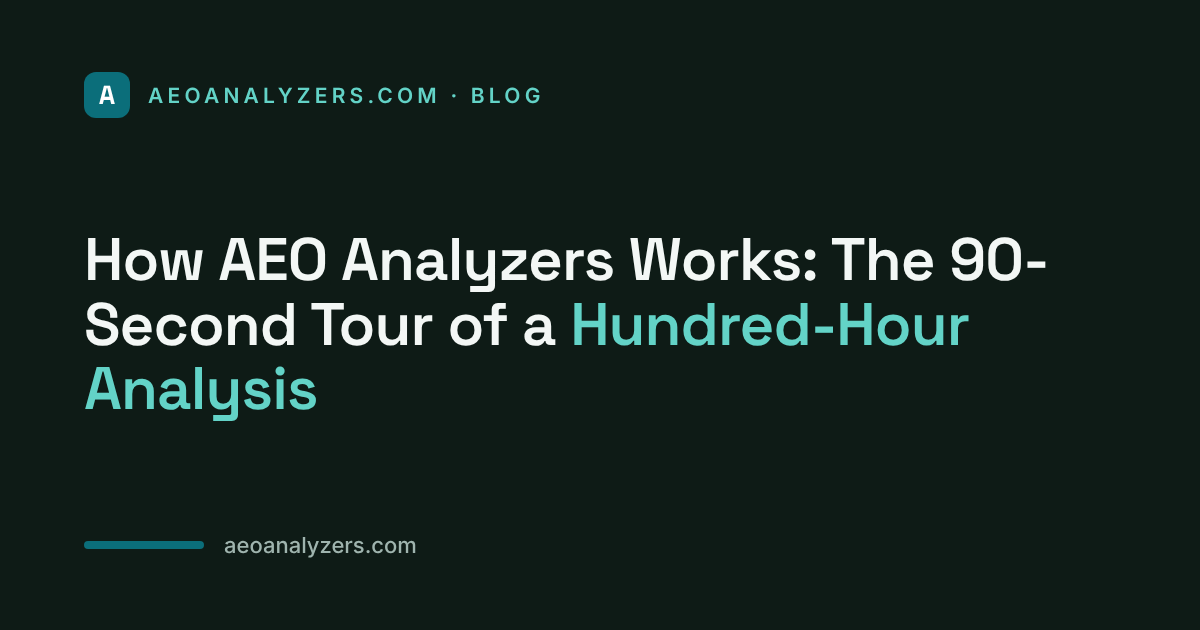
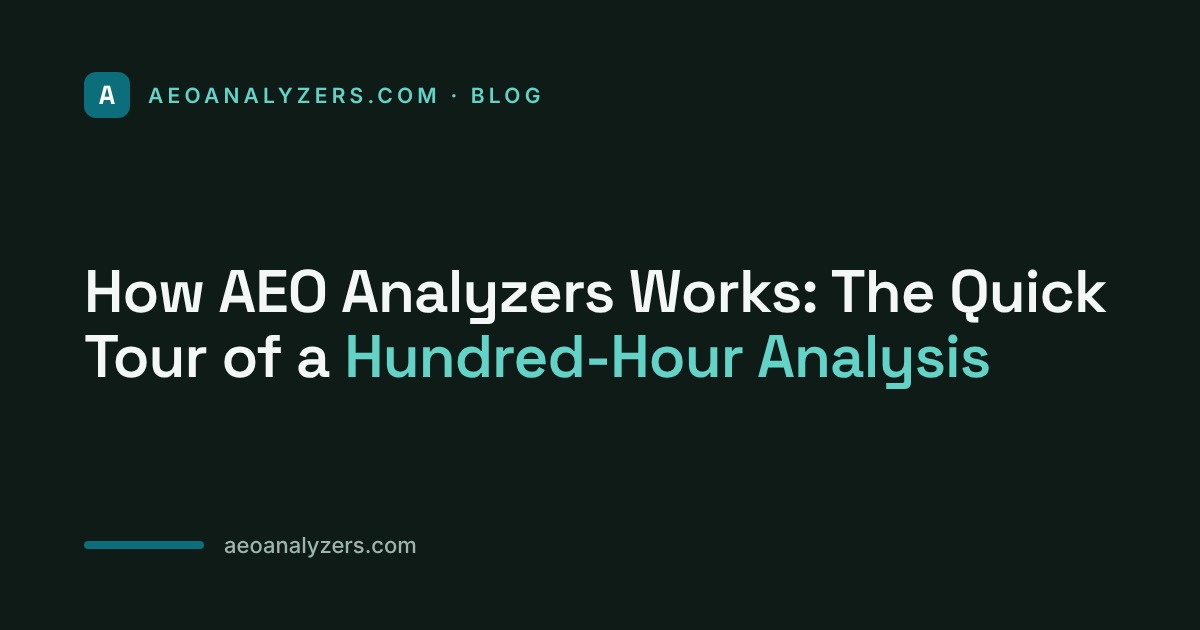
Retitle /blog/how-it-works to "The Quick Tour" (no timing figure); regenerate its title card; footer pass committed on the release pages
Claude-Session: https://claude.ai/code/session_01M4Z6V3c3eMgko9FCs2dnki

Changed region(s): [[0.0617, 0.3619, 0.925, 0.6635]]

diff --git a/public/blog/how-it-works/index.html b/public/blog/how-it-works/index.html
@@ -6,13 +6,13 @@
 <link rel="icon" href="/favicon.ico" sizes="any">
 <link rel="icon" type="image/svg+xml" href="/favicon.svg">
 <link rel="apple-touch-icon" href="/apple-touch-icon.png">
-<title>How AEO Analyzers Works: The 90-Second Tour</title>
+<title>How AEO Analyzers Works: The Quick Tour</title>
 <meta name="description" content="The pipeline, drawn: read your site, ask five answer engines on Pro and Business (four on the Day Pass), score three layers, keep every transcript.">
 <meta name="robots" content="index,follow,max-image-preview:large">
 <link rel="canonical" href="https://aeoanalyzers.com/blog/how-it-works">
 <meta property="og:type" content="article">
 <meta property="og:site_name" content="AEO Analyzers">
-<meta property="og:title" content="How AEO Analyzers Works: The 90-Second Tour of a Hundred-Hour Analysis">
+<meta property="og:title" content="How AEO Analyzers Works: The Quick Tour of a Hundred-Hour Analysis">
 <meta property="og:description" content="The pipeline, drawn: read your site, ask five answer engines on Pro and Business (four on the Day Pass), score three layers, keep every transcript.">
 <meta property="og:url" content="https://aeoanalyzers.com/blog/how-it-works">
 <meta property="og:image" content="https://aeoanalyzers.com/img/blog/2026-11/og-how-it-works-2026-11c.jpg">
@@ -23,7 +23,7 @@
 <meta name="twitter:card" content="summary_large_image">
 <meta name="twitter:site" content="@Lindsay_Hiebert">
 <meta name="twitter:creator" content="@Lindsay_Hiebert">
-<meta name="twitter:title" content="How AEO Analyzers Works: The 90-Second Tour of a Hundred-Hour Analysis">
+<meta name="twitter:title" content="How AEO Analyzers Works: The Quick Tour of a Hundred-Hour Analysis">
 <meta name="twitter:description" content="The pipeline, drawn: read your site, ask five answer engines on Pro and Business (four on the Day Pass), score three layers, keep every transcript.">
 <meta name="twitter:image" content="https://aeoanalyzers.com/img/blog/2026-11/og-how-it-works-2026-11c.jpg">
 <meta name="theme-color" content="#08343B">
@@ -31,7 +31,7 @@
 {
   "@context": "https://schema.org",
   "@type": "BlogPosting",
-  "headline": "How AEO Analyzers Works: The 90-Second Tour of a Hundred-Hour Analysis",
+  "headline": "How AEO Analyzers Works: The Quick Tour of a Hundred-Hour Analysis",
   "description": "The pipeline, drawn: read your site, ask five answer engines on Pro and Business (four on the Day Pass), score three layers, keep every transcript.",
   "datePublished": "2026-08-01",
   "dateModified": "2026-10-15",
@@ -154,7 +154,7 @@ strong{color:var(--ink)}
 <link rel="alternate" type="application/rss+xml" title="AEO Analyzers Blog" href="https://aeoanalyzers.com/blog/feed.xml">
 
 <meta name="twitter:image:alt" content="AEO Analyzers: Ask the engines. Keep every transcript. The pipeline in five boxes: your site, your questions, the engines asked several times, three layers scored, transcripts kept.">
-<!--wo016:breadcrumb-ld--><script type="application/ld+json">{"@context":"https://schema.org","@type":"BreadcrumbList","itemListElement":[{"@type":"ListItem","position":1,"name":"Home","item":"https://aeoanalyzers.com/"},{"@type":"ListItem","position":2,"name":"Blog","item":"https://aeoanalyzers.com/blog/"},{"@type":"ListItem","position":3,"name":"Behind the scenes","item":"https://aeoanalyzers.com/blog/#behind-the-scenes"},{"@type":"ListItem","position":4,"name":"How AEO Analyzers Works: The 90-Second Tour of a Hundred-Hour Analysis","item":"https://aeoanalyzers.com/blog/how-it-works"}]}</script><!--/wo016:breadcrumb-ld--></head>
+<!--wo016:breadcrumb-ld--><script type="application/ld+json">{"@context":"https://schema.org","@type":"BreadcrumbList","itemListElement":[{"@type":"ListItem","position":1,"name":"Home","item":"https://aeoanalyzers.com/"},{"@type":"ListItem","position":2,"name":"Blog","item":"https://aeoanalyzers.com/blog/"},{"@type":"ListItem","position":3,"name":"Behind the scenes","item":"https://aeoanalyzers.com/blog/#behind-the-scenes"},{"@type":"ListItem","position":4,"name":"How AEO Analyzers Works: The Quick Tour of a Hundred-Hour Analysis","item":"https://aeoanalyzers.com/blog/how-it-works"}]}</script><!--/wo016:breadcrumb-ld--></head>
 <body>
 <!--wo016:header--><header class="sitebar wo">
   <a class="brand" href="/"><svg aria-hidden="true" width="27" height="27" viewBox="0 0 40 40"><rect width="40" height="40" rx="12" fill="#18181B"/><g transform="translate(8 8)" fill="none" stroke="#FFFFFF" stroke-width="2" stroke-linecap="round" stroke-linejoin="round"><path d="M12 20v2M12 2v2M17 20v2M17 2v2M2 12h2M2 17h2M2 7h2M20 12h2M20 17h2M20 7h2M7 20v2M7 2v2"/><rect x="4" y="4" width="16" height="16" rx="2"/><rect x="8" y="8" width="8" height="8" rx="1"/></g></svg><span>AEO Analyzers</span></a>
@@ -165,8 +165,8 @@ strong{color:var(--ink)}
 <div class="wrap">
   <article class="post">
                 
-    <!--wo016:crumbs--><nav class="crumbs" aria-label="Breadcrumb"><a href="/">Home</a><span aria-hidden="true">›</span><a href="/blog/">Blog</a><span aria-hidden="true">›</span><a href="/blog/#behind-the-scenes">Behind the scenes</a><span aria-hidden="true">›</span><span aria-current="page">How AEO Analyzers Works: The 90-Second Tour of a Hundred-Hour Analysis</span></nav><a class="backlink" href="/blog/">← Back to the blog</a><!--/wo016:crumbs--><div class="posteyebrow">AEO Analyzers · Behind the scenes</div>
-    <h1 class="posttitle">How AEO Analyzers Works: The 90-Second Tour of a Hundred-Hour Analysis</h1><!--wo016:hero--><figure class="posthero"><img src="/img/blog/2026-11/how-it-works-hero-2026-11c.webp" alt="Ask the engines. Keep every transcript. The pipeline in five boxes: your site, your questions, the engines asked several times, three layers scored, transcripts kept." width="1600" height="840" fetchpriority="high" decoding="async"></figure><!--/wo016:hero-->
+    <!--wo016:crumbs--><nav class="crumbs" aria-label="Breadcrumb"><a href="/">Home</a><span aria-hidden="true">›</span><a href="/blog/">Blog</a><span aria-hidden="true">›</span><a href="/blog/#behind-the-scenes">Behind the scenes</a><span aria-hidden="true">›</span><span aria-current="page">How AEO Analyzers Works: The Quick Tour of a Hundred-Hour Analysis</span></nav><a class="backlink" href="/blog/">← Back to the blog</a><!--/wo016:crumbs--><div class="posteyebrow">AEO Analyzers · Behind the scenes</div>
+    <h1 class="posttitle">How AEO Analyzers Works: The Quick Tour of a Hundred-Hour Analysis</h1><!--wo016:hero--><figure class="posthero"><img src="/img/blog/2026-11/how-it-works-hero-2026-11c.webp" alt="Ask the engines. Keep every transcript. The pipeline in five boxes: your site, your questions, the engines asked several times, three layers scored, transcripts kept." width="1600" height="840" fetchpriority="high" decoding="async"></figure><!--/wo016:hero-->
     <div class="postbody">
       <p style="margin:0 0 10px;font-size:14px;color:var(--muted)"><strong style="color:var(--ink)">Updated 15 October 2026:</strong> Pro and Business sweeps now ask five engines, adding Grok. The method is otherwise unchanged.</p>
       <p class="postlead">This one shows its work — every question it asked, every engine it asked, every answer it got back, stored so you can re-run it yourself. Here is the whole pipeline, end to end, in about the time it takes to read this page.</p>

diff --git a/public/blog/what-you-actually-get/index.html b/public/blog/what-you-actually-get/index.html
@@ -276,8 +276,8 @@ footer p{max-width:none}
     <p class="samplenote"><em>AEO Analyzers (aeoanalyzers.com) was created and is solely maintained by Lindsay Hiebert, founder of PIGENAI LLC. It is unaffiliated with any similarly named browser extension, plugin, or tool.</em></p>
         
   <!--wo016:end--><div class="postend"><a class="backlink" href="/blog/">← Back to the blog</a>
-      <nav class="prevnext" aria-label="More in Behind the scenes"><a class="prev" href="/blog/how-it-works"><small>← Previous in Behind the scenes</small>How AEO Analyzers Works: The 90-Second Tour of a Hundred-Hour Analysis</a><a class="next" href="/blog/are-you-the-answer-ai-gives"><small>Next in Behind the scenes →</small>Is your brand the answer AI gives — or is a competitor?</a></nav>
-      <div class="morein"><h2>More in Behind the scenes</h2><ul><li><a href="/blog/how-it-works">How AEO Analyzers Works: The 90-Second Tour of a Hundred-Hour Analysis</a></li><li><a href="/blog/are-you-the-answer-ai-gives">Is your brand the answer AI gives — or is a competitor?</a></li></ul></div></div><!--/wo016:end--></article>
+      <nav class="prevnext" aria-label="More in Behind the scenes"><a class="prev" href="/blog/how-it-works"><small>← Previous in Behind the scenes</small>How AEO Analyzers Works: The Quick Tour of a Hundred-Hour Analysis</a><a class="next" href="/blog/are-you-the-answer-ai-gives"><small>Next in Behind the scenes →</small>Is your brand the answer AI gives — or is a competitor?</a></nav>
+      <div class="morein"><h2>More in Behind the scenes</h2><ul><li><a href="/blog/how-it-works">How AEO Analyzers Works: The Quick Tour of a Hundred-Hour Analysis</a></li><li><a href="/blog/are-you-the-answer-ai-gives">Is your brand the answer AI gives — or is a competitor?</a></li></ul></div></div><!--/wo016:end--></article>
 
   <div class="postoutro">
     <span class="eyebrow">See yours</span>

diff --git a/public/blog/index.html b/public/blog/index.html
@@ -181,7 +181,7 @@ body{margin:0;background:var(--paper);color:var(--ink);font-family:var(--sans);l
   },
   {
    "@type": "BlogPosting",
-   "headline": "How AEO Analyzers works: the 90-second tour of a hundred-hour analysis",
+   "headline": "How AEO Analyzers works: the quick tour of a hundred-hour analysis",
    "url": "https://aeoanalyzers.com/blog/how-it-works"
   },
   {
@@ -416,7 +416,7 @@ body{margin:0;background:var(--paper);color:var(--ink);font-family:var(--sans);l
     <div class="posts">
     <article class="postcard">
       <img class="thumb" src="/img/blog/2026-11/og-how-it-works-2026-11c.jpg" alt="" width="600" height="315" loading="lazy" decoding="async">
-      <h2><a href="/blog/how-it-works">How AEO Analyzers Works: The 90-Second Tour of a Hundred-Hour Analysis</a></h2>
+      <h2><a href="/blog/how-it-works">How AEO Analyzers Works: The Quick Tour of a Hundred-Hour Analysis</a></h2>
       <div class="meta">August 2026 &middot; 6-minute read</div>
       <p style="margin-top:10px">The pipeline, drawn: read your site, ask five answer engines on Pro and Business (four on the Day Pass), score three layers, keep every transcript.</p>
       <a class="more" href="/blog/how-it-works">Read the piece &rarr;</a>

diff --git a/public/blog/are-you-the-answer-ai-gives/index.html b/public/blog/are-you-the-answer-ai-gives/index.html
@@ -261,7 +261,7 @@ footer p{max-width:none}
         
   <!--wo016:end--><div class="postend"><a class="backlink" href="/blog/">← Back to the blog</a>
       <nav class="prevnext" aria-label="More in Behind the scenes"><a class="prev" href="/blog/what-you-actually-get"><small>← Previous in Behind the scenes</small>What You Actually Get: The Action Plan Inside Every Citation Sweep</a></nav>
-      <div class="morein"><h2>More in Behind the scenes</h2><ul><li><a href="/blog/how-it-works">How AEO Analyzers Works: The 90-Second Tour of a Hundred-Hour Analysis</a></li><li><a href="/blog/what-you-actually-get">What You Actually Get: The Action Plan Inside Every Citation Sweep</a></li></ul></div></div><!--/wo016:end--></article>
+      <div class="morein"><h2>More in Behind the scenes</h2><ul><li><a href="/blog/how-it-works">How AEO Analyzers Works: The Quick Tour of a Hundred-Hour Analysis</a></li><li><a href="/blog/what-you-actually-get">What You Actually Get: The Action Plan Inside Every Citation Sweep</a></li></ul></div></div><!--/wo016:end--></article>
 
   <div class="bento">
     <!-- Sep 7 2026: the artifact is accurately named; what was false was the implied

diff --git a/public/blog/aeo-analyzers-five-engines/index.html b/public/blog/aeo-analyzers-five-engines/index.html
@@ -237,6 +237,7 @@ footer p{max-width:none}
 .r3 .hp{position:absolute;left:-9999px}
 .r3 #status{font-weight:600}
 </style>
+<link rel="alternate" type="application/rss+xml" title="AEO Analyzers Blog" href="https://aeoanalyzers.com/blog/feed.xml">
 </head>
 <body>
 <!--wo016:header--><header class="sitebar wo">
@@ -287,6 +288,19 @@ footer p{max-width:none}
     </div>
   </article>
 </main>
-<footer class="sitefoot"></footer>
+<footer class="sitefoot">
+  <div class="fin">
+    <nav class="fnav" aria-label="Site">
+      <a href="/">Home</a>
+      <a href="/blog/">Blog</a>
+      <a href="/press">Press</a>
+      <a href="/contact">Contact</a>
+      <a href="/privacy">Privacy</a>
+      <a href="/terms">Terms</a>
+    </nav>
+    <div class="fcop">&copy; 2026 PIGENAI LLC &middot; Kansas City, MO, United States &middot; All rights reserved.</div>
+    <p class="fcop" style="flex-basis:100%;margin:0">AEO Analyzers (aeoanalyzers.com) is built and solely maintained by Lindsay Hiebert, founder of PIGENAI LLC, and is unaffiliated with any similarly named extension, plugin or tool.</p>
+  </div>
+</footer>
 </body>
 </html>

diff --git a/public/blog/being-found-is-not-being-recommended/index.html b/public/blog/being-found-is-not-being-recommended/index.html
@@ -237,6 +237,7 @@ footer p{max-width:none}
 .r3 .hp{position:absolute;left:-9999px}
 .r3 #status{font-weight:600}
 </style>
+<link rel="alternate" type="application/rss+xml" title="AEO Analyzers Blog" href="https://aeoanalyzers.com/blog/feed.xml">
 </head>
 <body>
 <!--wo016:header--><header class="sitebar wo">
@@ -280,6 +281,19 @@ footer p{max-width:none}
     </div>
   </article>
 </main>
-<footer class="sitefoot"></footer>
+<footer class="sitefoot">
+  <div class="fin">
+    <nav class="fnav" aria-label="Site">
+      <a href="/">Home</a>
+      <a href="/blog/">Blog</a>
+      <a href="/press">Press</a>
+      <a href="/contact">Contact</a>
+      <a href="/privacy">Privacy</a>
+      <a href="/terms">Terms</a>
+    </nav>
+    <div class="fcop">&copy; 2026 PIGENAI LLC &middot; Kansas City, MO, United States &middot; All rights reserved.</div>
+    <p class="fcop" style="flex-basis:100%;margin:0">AEO Analyzers (aeoanalyzers.com) is built and solely maintained by Lindsay Hiebert, founder of PIGENAI LLC, and is unaffiliated with any similarly named extension, plugin or tool.</p>
+  </div>
+</footer>
 </body>
 </html>

diff --git a/public/contact/index.html b/public/contact/index.html
@@ -278,6 +278,19 @@ document.getElementById('contactform').addEventListener('submit', async function
     </div>
   </article>
 </main>
-<footer class="sitefoot"></footer>
+<footer class="sitefoot">
+  <div class="fin">
+    <nav class="fnav" aria-label="Site">
+      <a href="/">Home</a>
+      <a href="/blog/">Blog</a>
+      <a href="/press">Press</a>
+      <a href="/contact">Contact</a>
+      <a href="/privacy">Privacy</a>
+      <a href="/terms">Terms</a>
+    </nav>
+    <div class="fcop">&copy; 2026 PIGENAI LLC &middot; Kansas City, MO, United States &middot; All rights reserved.</div>
+    <p class="fcop" style="flex-basis:100%;margin:0">AEO Analyzers (aeoanalyzers.com) is built and solely maintained by Lindsay Hiebert, founder of PIGENAI LLC, and is unaffiliated with any similarly named extension, plugin or tool.</p>
+  </div>
+</footer>
 </body>
 </html>

diff --git a/public/press/index.html b/public/press/index.html
@@ -273,6 +273,19 @@ Inquiries: <a href="/contact">the contact page</a></p>
     </div>
   </article>
 </main>
-<footer class="sitefoot"></footer>
+<footer class="sitefoot">
+  <div class="fin">
+    <nav class="fnav" aria-label="Site">
+      <a href="/">Home</a>
+      <a href="/blog/">Blog</a>
+      <a href="/press">Press</a>
+      <a href="/contact">Contact</a>
+      <a href="/privacy">Privacy</a>
+      <a href="/terms">Terms</a>
+    </nav>
+    <div class="fcop">&copy; 2026 PIGENAI LLC &middot; Kansas City, MO, United States &middot; All rights reserved.</div>
+    <p class="fcop" style="flex-basis:100%;margin:0">AEO Analyzers (aeoanalyzers.com) is built and solely maintained by Lindsay Hiebert, founder of PIGENAI LLC, and is unaffiliated with any similarly named extension, plugin or tool.</p>
+  </div>
+</footer>
 </body>
 </html>

diff --git a/public/citation-sweep-example/index.html b/public/citation-sweep-example/index.html
@@ -280,6 +280,19 @@ footer p{max-width:none}
     </div>
   </article>
 </main>
-<footer class="sitefoot"></footer>
+<footer class="sitefoot">
+  <div class="fin">
+    <nav class="fnav" aria-label="Site">
+      <a href="/">Home</a>
+      <a href="/blog/">Blog</a>
+      <a href="/press">Press</a>
+      <a href="/contact">Contact</a>
+      <a href="/privacy">Privacy</a>
+      <a href="/terms">Terms</a>
+    </nav>
+    <div class="fcop">&copy; 2026 PIGENAI LLC &middot; Kansas City, MO, United States &middot; All rights reserved.</div>
+    <p class="fcop" style="flex-basis:100%;margin:0">AEO Analyzers (aeoanalyzers.com) is built and solely maintained by Lindsay Hiebert, founder of PIGENAI LLC, and is unaffiliated with any similarly named extension, plugin or tool.</p>
+  </div>
+</footer>
 </body>
 </html>
